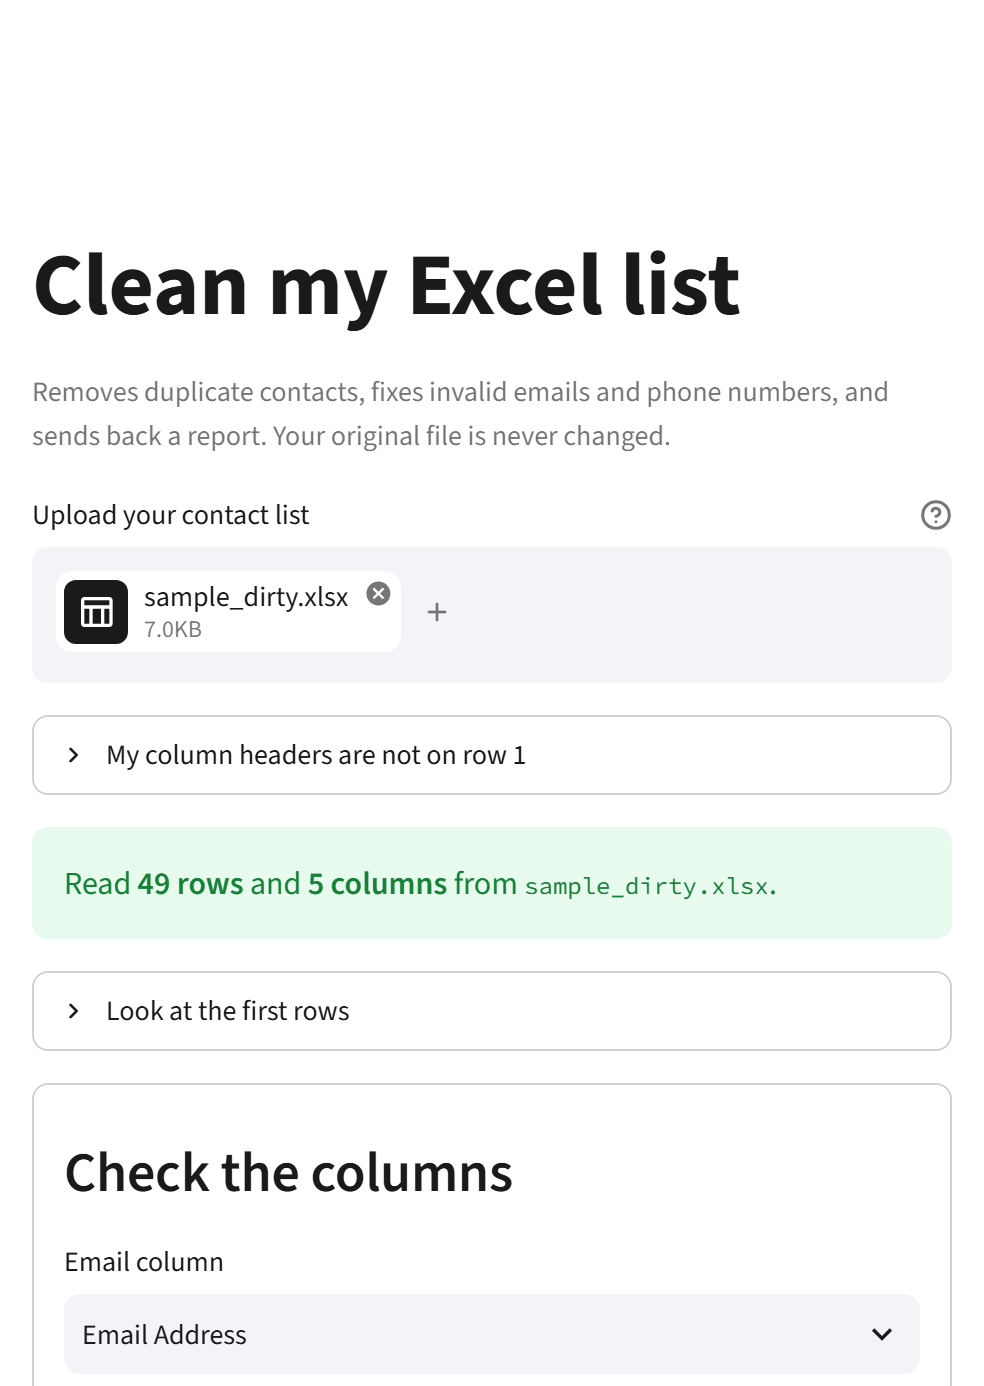
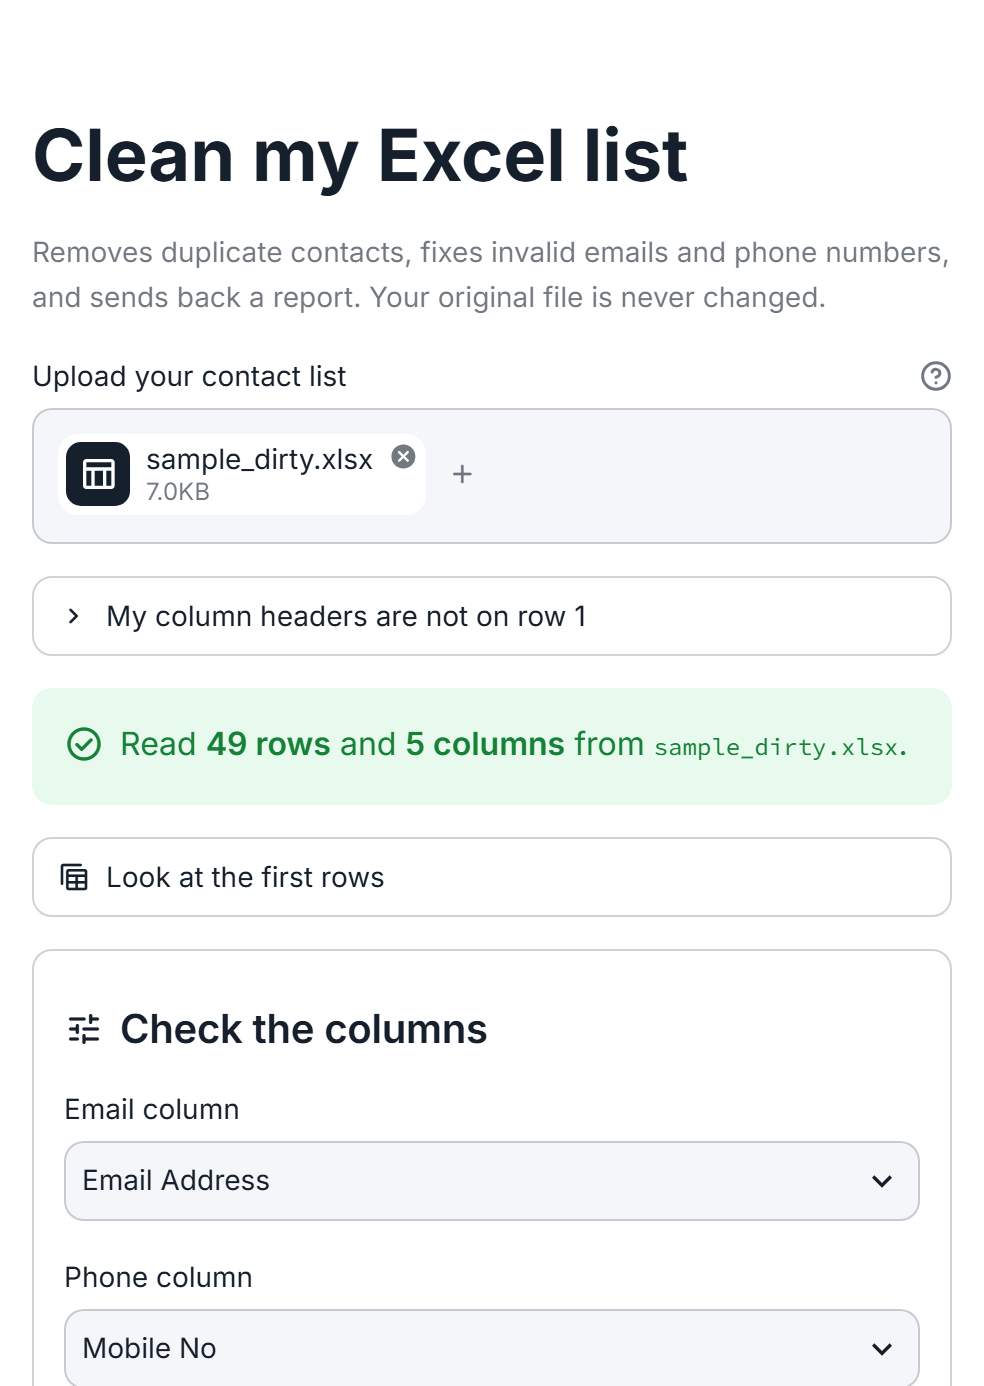
Polish the interface for client demos
The app worked but looked like a developer tool. This is the same behaviour,
presented properly, following Streamlit's own theming guidance rather than
injected CSS.

- config.toml: Inter for body and headings, tighter heading scale, 10px radii,
  brand dataframe header, and page padding. No colour or font is set in Python.
- app.py: "How it works" is a bordered card with Material icons instead of a
  heavy info box; country and phone format are segmented controls; result
  screens say "Your file is ready"; expanders and buttons carry icons;
  dividers removed in favour of spacing.
- batch table drops Status and Rows in when nothing failed, so seven columns
  fit a laptop instead of being clipped.
- docs/: all screenshots regenerated in the new theme, desktop and mobile.

Tests unchanged and passing (181).

diff --git a/app.py b/app.py
@@ -18,13 +18,9 @@ from src.webapp_core import MAX_BYTES, inspect_file, process_file
 
 SAMPLE = Path("data/sample_dirty.xlsx")
 
-COUNTRIES = {"India (IN)": "IN", "United States (US)": "US", "Any country": "ANY"}
+COUNTRIES = {"India": "IN", "United States": "US", "Any country": "ANY"}
 COUNTRY_LABELS = list(COUNTRIES)
-FORMATS = {
-    "10 digits (9876543210)": "local",
-    "International (+919876543210)": "e164",
-    "Digits only": "digits",
-}
+FORMATS = {"Local": "local", "International": "e164", "Digits only": "digits"}
 FORMAT_LABELS = list(FORMATS)
 
 st.set_page_config(
@@ -89,7 +85,10 @@ def render_batch(data: bytes, filename: str, fingerprint: str) -> None:
         with right:
             format_label = st.selectbox("Write phone numbers as", FORMAT_LABELS)
         submitted = st.form_submit_button(
-            "Clean all files", type="primary", width="stretch"
+            "Clean all files",
+            type="primary",
+            icon=":material/cleaning_services:",
+            width="stretch",
         )
 
     if submitted:
@@ -115,8 +114,8 @@ def render_batch(data: bytes, filename: str, fingerprint: str) -> None:
     if result is None:
         return
 
-    st.divider()
-    st.subheader("Batch finished")
+    st.space("medium")
+    st.subheader("Batch finished", icon=":material/task_alt:")
 
     stat_grid([
         ("Files cleaned", f"{result.files_ok} / {len(result.outcomes)}"),
@@ -127,10 +126,15 @@ def render_batch(data: bytes, filename: str, fingerprint: str) -> None:
     if result.files_failed:
         st.warning(
             f"{result.files_failed} file(s) could not be read and were skipped. "
-            "They are marked in the table below."
+            "They are marked in the table below.",
+            icon=":material/warning:",
         )
 
-    st.dataframe(result.summary_frame, width="stretch", hide_index=True)
+    summary = result.summary_frame
+    if not result.files_failed:
+        # Nine columns do not fit on a laptop; the two that carry no news go.
+        summary = summary.drop(columns=["Status", "Rows in"])
+    st.dataframe(summary, width="stretch", hide_index=True)
 
     st.download_button(
         f"Download all {result.files_ok} cleaned files",
@@ -138,6 +142,7 @@ def render_batch(data: bytes, filename: str, fingerprint: str) -> None:
         file_name=zip_name_for(filename),
         mime="application/zip",
         type="primary",
+        icon=":material/download:",
         width="stretch",
     )
     st.caption(
@@ -156,11 +161,16 @@ uploaded = st.file_uploader(
 )
 
 if uploaded is None:
-    st.info(
-        "**How it works**  \n"
-        "1. Upload your file, or a ZIP of several files.  \n"
-        "2. Check the detected columns.  \n"
-        "3. Download the cleaned file and the report."
+    with st.container(border=True):
+        st.markdown("##### How it works")
+        st.markdown(
+            ":material/upload_file: **Upload** your Excel, CSV, or a ZIP of several files.  \n"
+            ":material/tune: **Check** the columns we detected — change them if needed.  \n"
+            ":material/download: **Download** the cleaned file, with a report of every change."
+        )
+    st.caption(
+        "Up to 15 MB per file · 20 files per ZIP · nothing is uploaded anywhere, "
+        "it all runs on this machine."
     )
     if SAMPLE.exists():
         st.download_button(
@@ -168,6 +178,7 @@ if uploaded is None:
             SAMPLE.read_bytes(),
             file_name="sample_dirty.xlsx",
             mime="application/vnd.openxmlformats-officedocument.spreadsheetml.sheet",
+            icon=":material/download:",
         )
     st.stop()
 
@@ -209,10 +220,11 @@ if st.session_state.get("result_for") not in (None, fingerprint):
 
 st.success(
     f"Read **{info.row_count:,} rows** and **{len(info.columns)} columns** "
-    f"from `{uploaded.name}`."
+    f"from `{uploaded.name}`.",
+    icon=":material/check_circle:",
 )
 
-with st.expander("Look at the first rows"):
+with st.expander("Look at the first rows", icon=":material/table_view:"):
     st.dataframe(info.preview, width="stretch", hide_index=True)
 
 options = ["(none)"] + list(info.columns)
@@ -220,7 +232,7 @@ email_index = options.index(info.email_guess) if info.email_guess in options els
 phone_index = options.index(info.phone_guess) if info.phone_guess in options else 0
 
 with st.form("settings"):
-    st.subheader("Check the columns")
+    st.subheader("Check the columns", icon=":material/tune:")
     left, right = st.columns(2)
     with left:
         email_choice = st.selectbox("Email column", options, index=email_index)
@@ -234,7 +246,7 @@ with st.form("settings"):
         help="Rows missing these will be moved to the Rejected sheet. Leave empty to allow blanks.",
     )
 
-    with st.expander("Indian business fields (optional)"):
+    with st.expander("Indian business fields (optional)", icon=":material/badge:"):
         st.caption(
             "GSTIN and PAN are checked for format only — not verified with the "
             "GST portal. Invalid values send that row to Rejected."
@@ -261,18 +273,29 @@ with st.form("settings"):
                 else 0,
             )
 
-    left, right = st.columns(2)
-    with left:
-        country_label = st.selectbox("Phone numbers are from", COUNTRY_LABELS)
-    with right:
-        format_label = st.selectbox("Write phone numbers as", FORMAT_LABELS)
+    country_label = st.segmented_control(
+        "Phone numbers are from",
+        COUNTRY_LABELS,
+        default=COUNTRY_LABELS[0],
+        key="single_country",
+    ) or COUNTRY_LABELS[0]
+    format_label = st.segmented_control(
+        "Write phone numbers as",
+        FORMAT_LABELS,
+        default=FORMAT_LABELS[0],
+        key="single_format",
+        help="Local: 9876543210 · International: +919876543210 · Digits only: 919876543210",
+    ) or FORMAT_LABELS[0]
 
     keep_duplicates = st.checkbox(
         "Only report duplicates, do not remove them", value=False
     )
 
     submitted = st.form_submit_button(
-        "Clean this file", type="primary", width="stretch"
+        "Clean this file",
+        type="primary",
+        icon=":material/cleaning_services:",
+        width="stretch",
     )
 
 if submitted:
@@ -317,8 +340,8 @@ if submitted:
 
 result = st.session_state.get("result")
 if result is not None:
-    st.divider()
-    st.subheader("Done")
+    st.space("medium")
+    st.subheader("Your file is ready", icon=":material/task_alt:")
     if st.session_state.get("result_note"):
         st.caption(f"Checked {st.session_state['result_note']}. Original file untouched.")
 
@@ -336,11 +359,15 @@ if result is not None:
         file_name=f"{Path(uploaded.name).stem}_cleaned.xlsx",
         mime="application/vnd.openxmlformats-officedocument.spreadsheetml.sheet",
         type="primary",
+        icon=":material/download:",
         width="stretch",
     )
 
     if result.changes_total:
-        with st.expander(f"See the {result.changes_total:,} cells that were cleaned"):
+        with st.expander(
+            f"See the {result.changes_total:,} cells that were cleaned",
+            icon=":material/edit_note:",
+        ):
             st.caption(
                 "Every fix is shown before and after, and listed on the "
                 "**Changes** sheet in the downloaded file."
@@ -348,7 +375,10 @@ if result is not None:
             st.dataframe(result.changes_preview, width="stretch", hide_index=True)
 
     if result.possible_total:
-        with st.expander(f"{result.possible_total:,} possible duplicates to review"):
+        with st.expander(
+            f"{result.possible_total:,} possible duplicates to review",
+            icon=":material/group:",
+        ):
             st.caption(
                 "These pairs look like the same person but were **not** removed. "
                 "They are on the **Possible duplicates** sheet — merge them yourself "
@@ -357,7 +387,10 @@ if result is not None:
             st.dataframe(result.possible_preview, width="stretch", hide_index=True)
 
     if result.rejected_total:
-        with st.expander(f"See the {result.rejected_total:,} rejected rows"):
+        with st.expander(
+            f"See the {result.rejected_total:,} rejected rows",
+            icon=":material/block:",
+        ):
             st.caption(
                 "Nothing was deleted silently. Every one of these is on the "
                 "Rejected sheet in the downloaded file, with its reason."
@@ -371,7 +404,7 @@ if result is not None:
         "**Rejected**, **Changes** and **Possible duplicates**."
     )
 
-st.divider()
+st.space("large")
 st.caption(
     "Questions or a file over 15 MB? Message me and I will handle it directly."
 )
